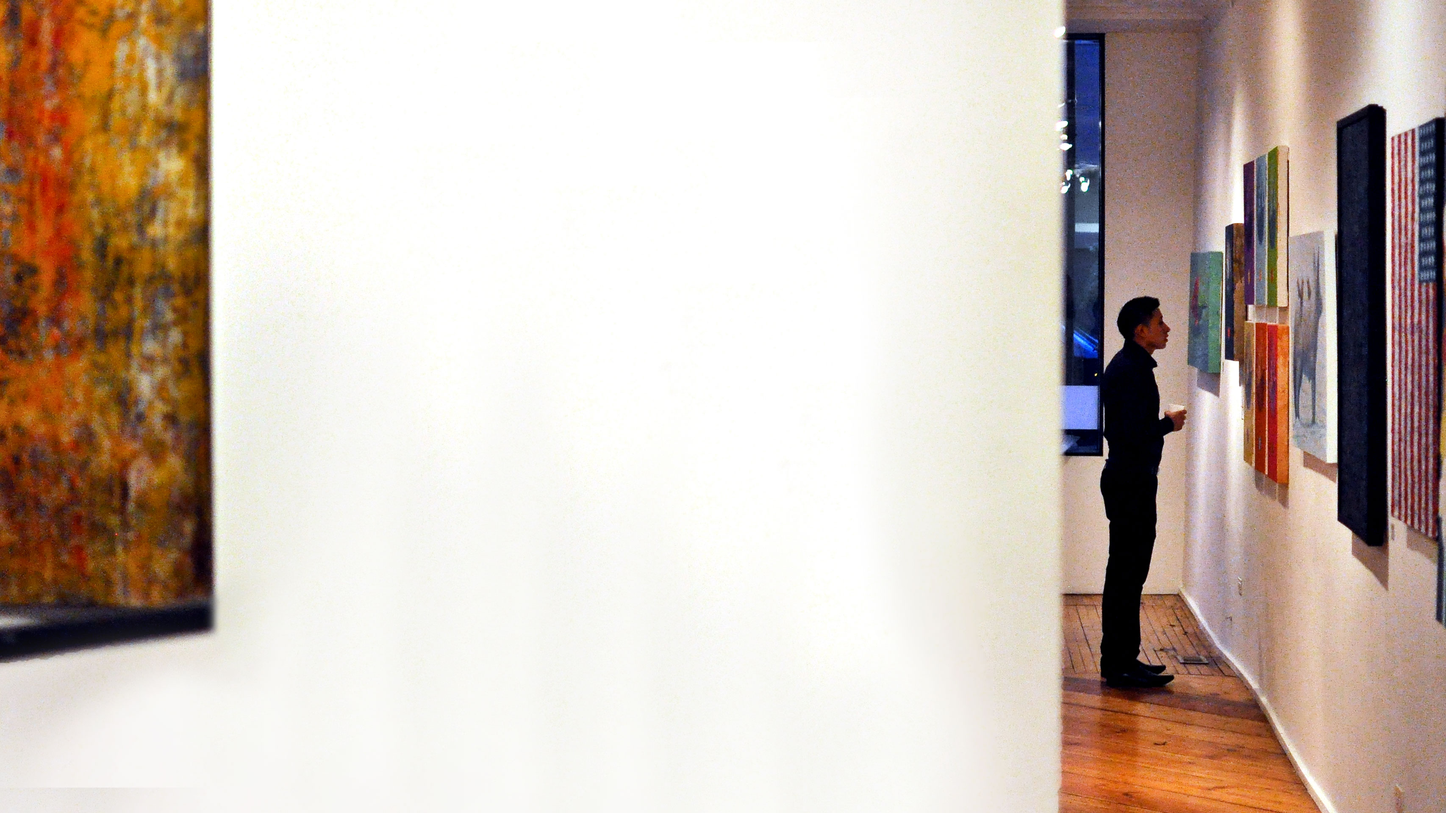
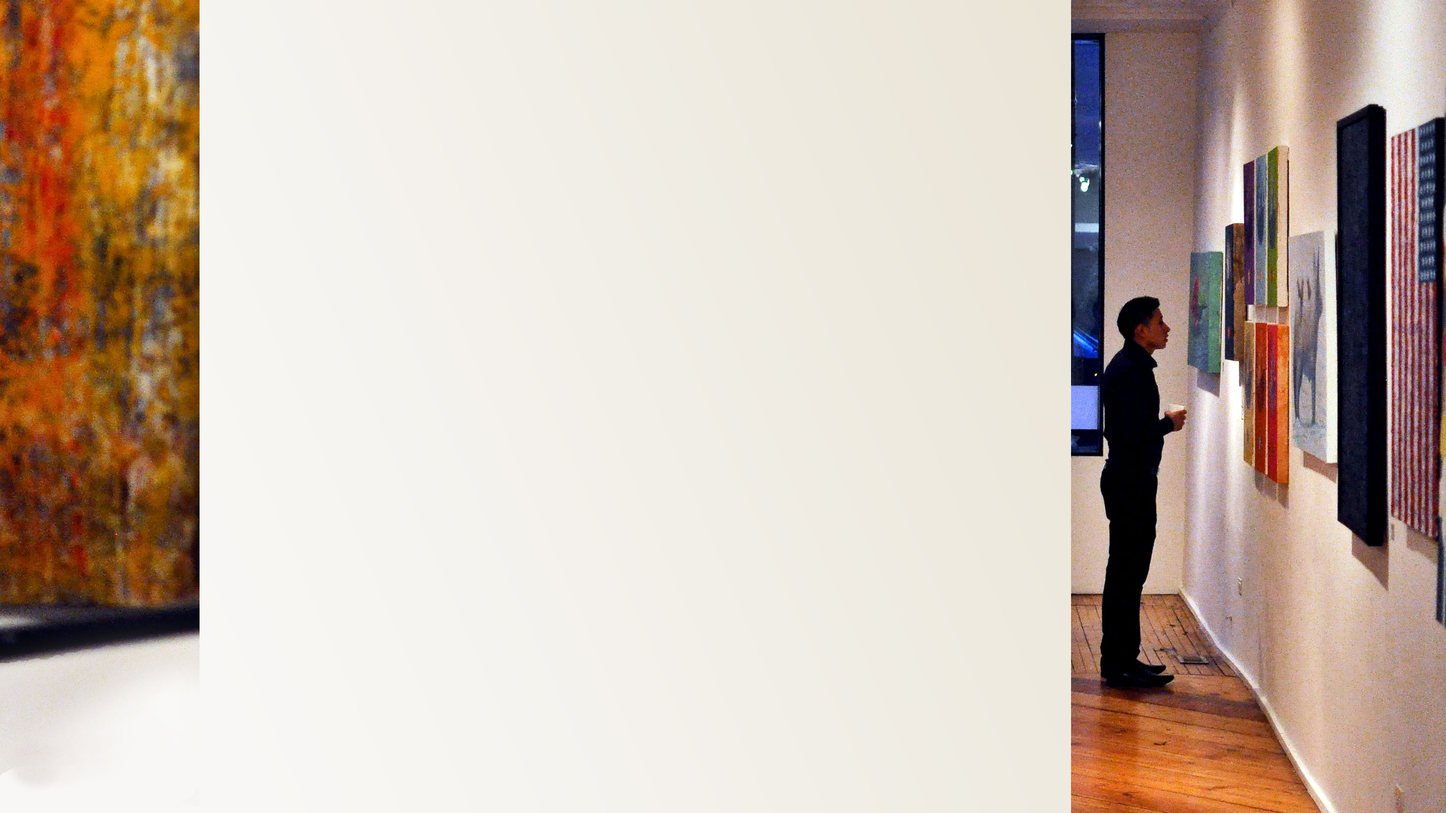
Styling contact page

Changed region(s): [[0.3727, 0.0, 0.6522, 0.8125], [0.6833, 0.0, 0.7454, 1.0], [0.1242, 0.0, 0.1863, 0.8125]]

diff --git a/app/assets/stylesheets/application.css.scss b/app/assets/stylesheets/application.css.scss
@@ -587,6 +587,8 @@ hr {
   display: inline-block;
 }
 
+e7e1d1
+
 .jumbotron-home-second {
     margin-bottom: 0px;
     background-color: gray;
@@ -596,11 +598,14 @@ hr {
     color: white;
 }
 .jumbotron-contact {
-    margin-bottom: 0px;
-    background-image: url(gallery5.jpg);
-    background-position: 0% 25%;
-    background-size: cover;
-    background-repeat: no-repeat;
+  background-image: url('gallery-flat.jpg');
+  background-color: #EAEAEA;
+  margin-bottom: 0;
+  min-height: 50%;
+  background-repeat: no-repeat;
+  background-position: center;
+  -webkit-background-size: cover;
+  background-size: cover;
 }
 
 .jumbotron.lead-text {
